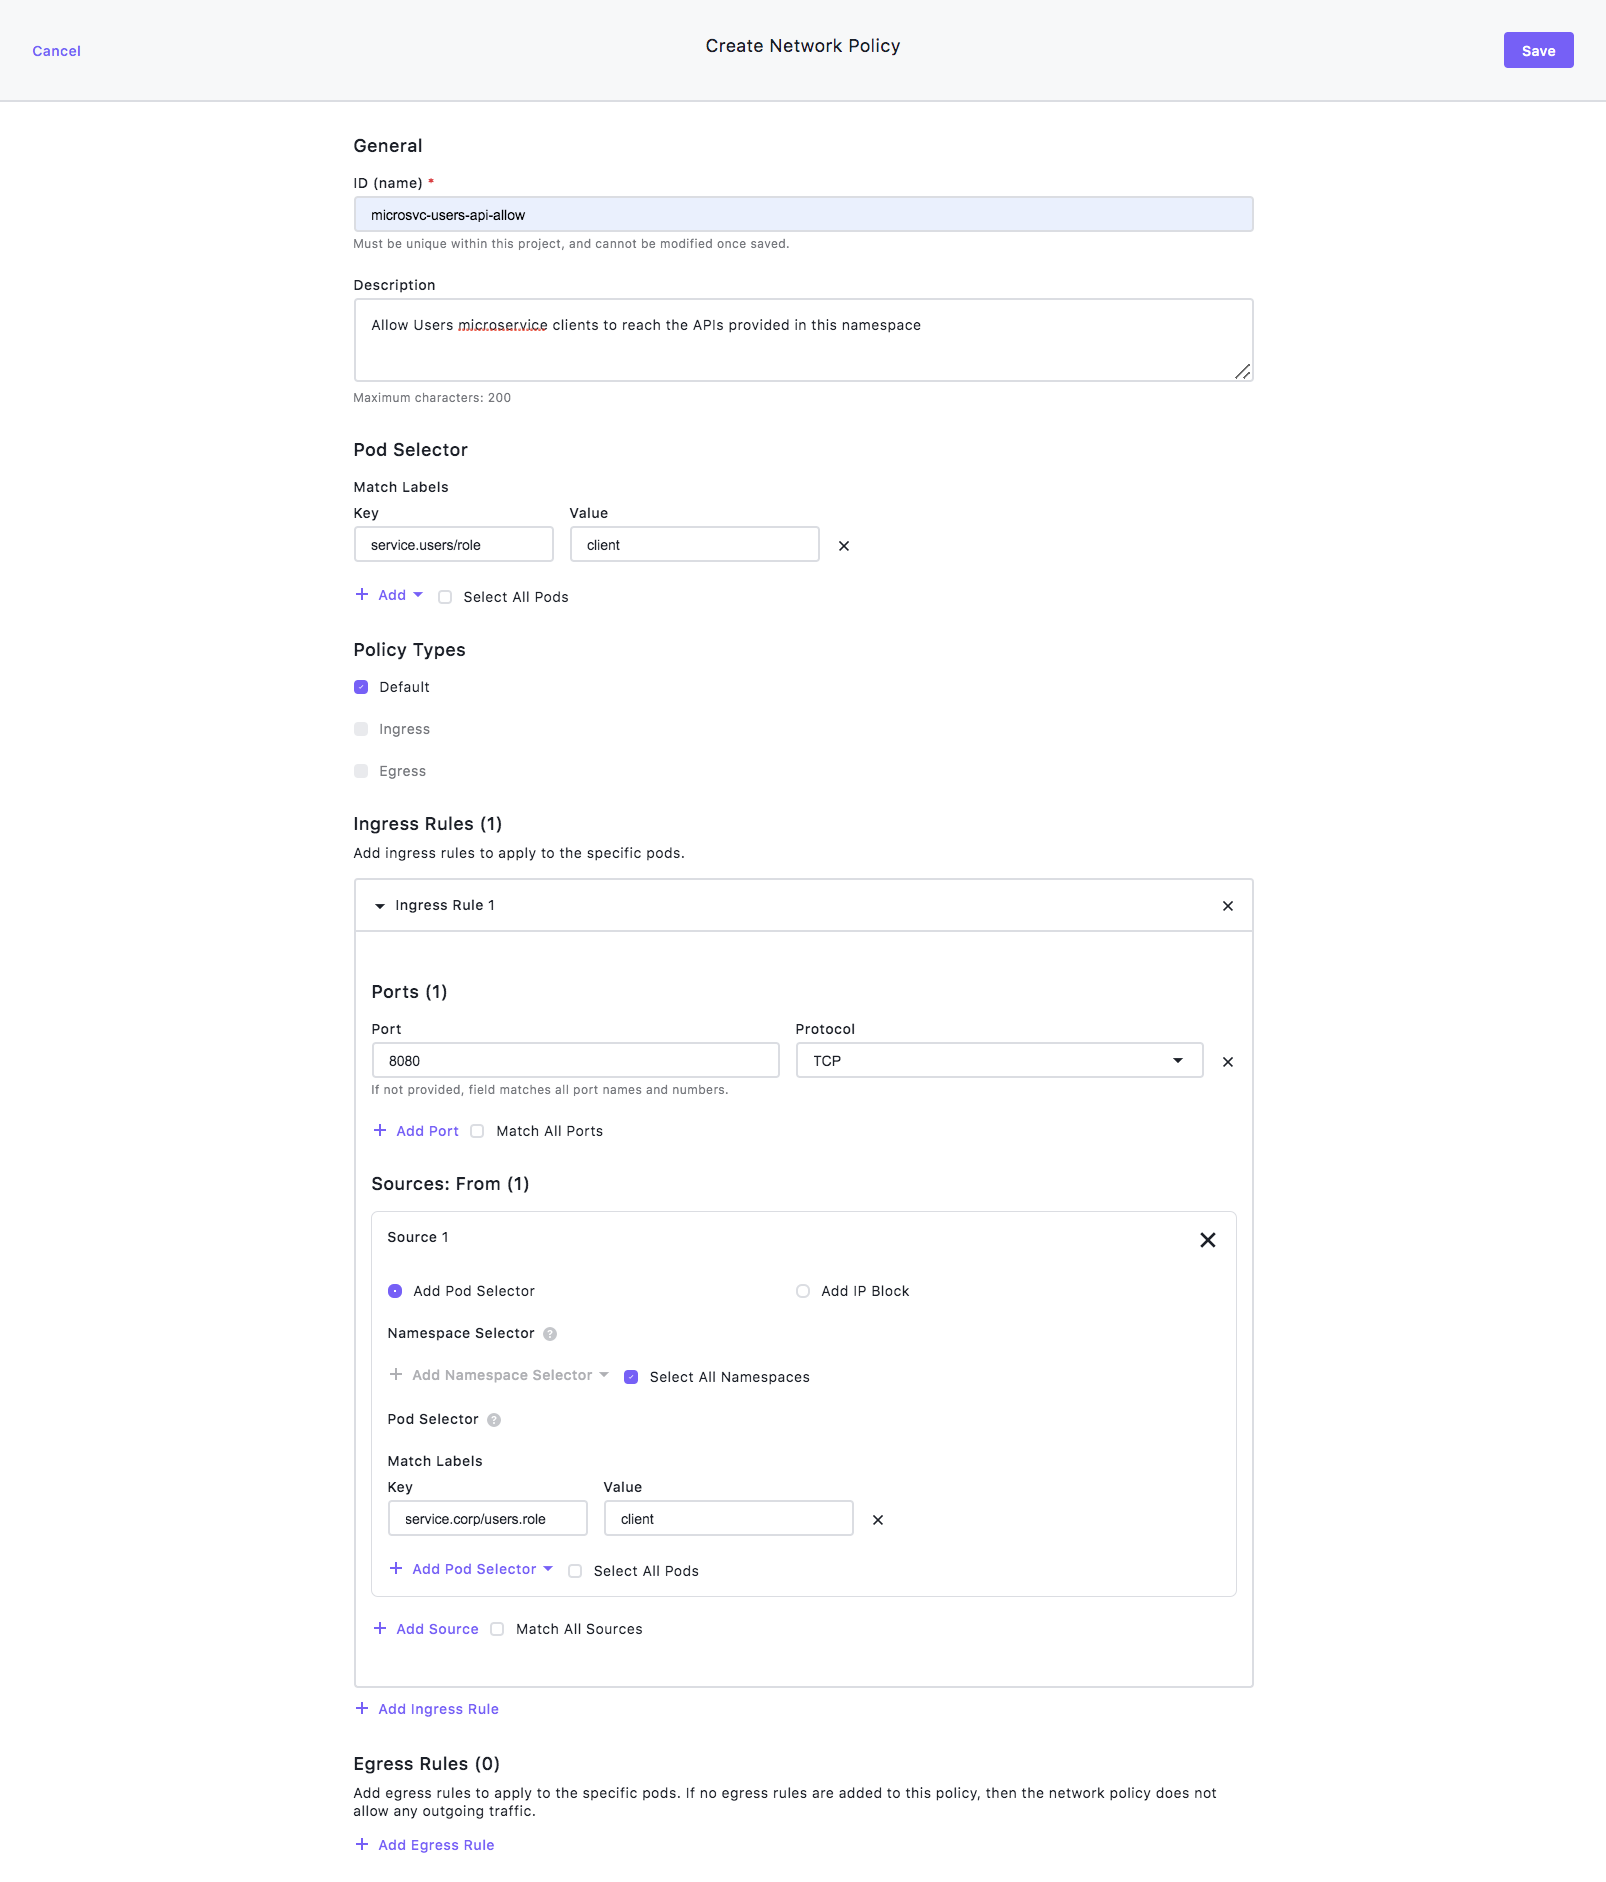
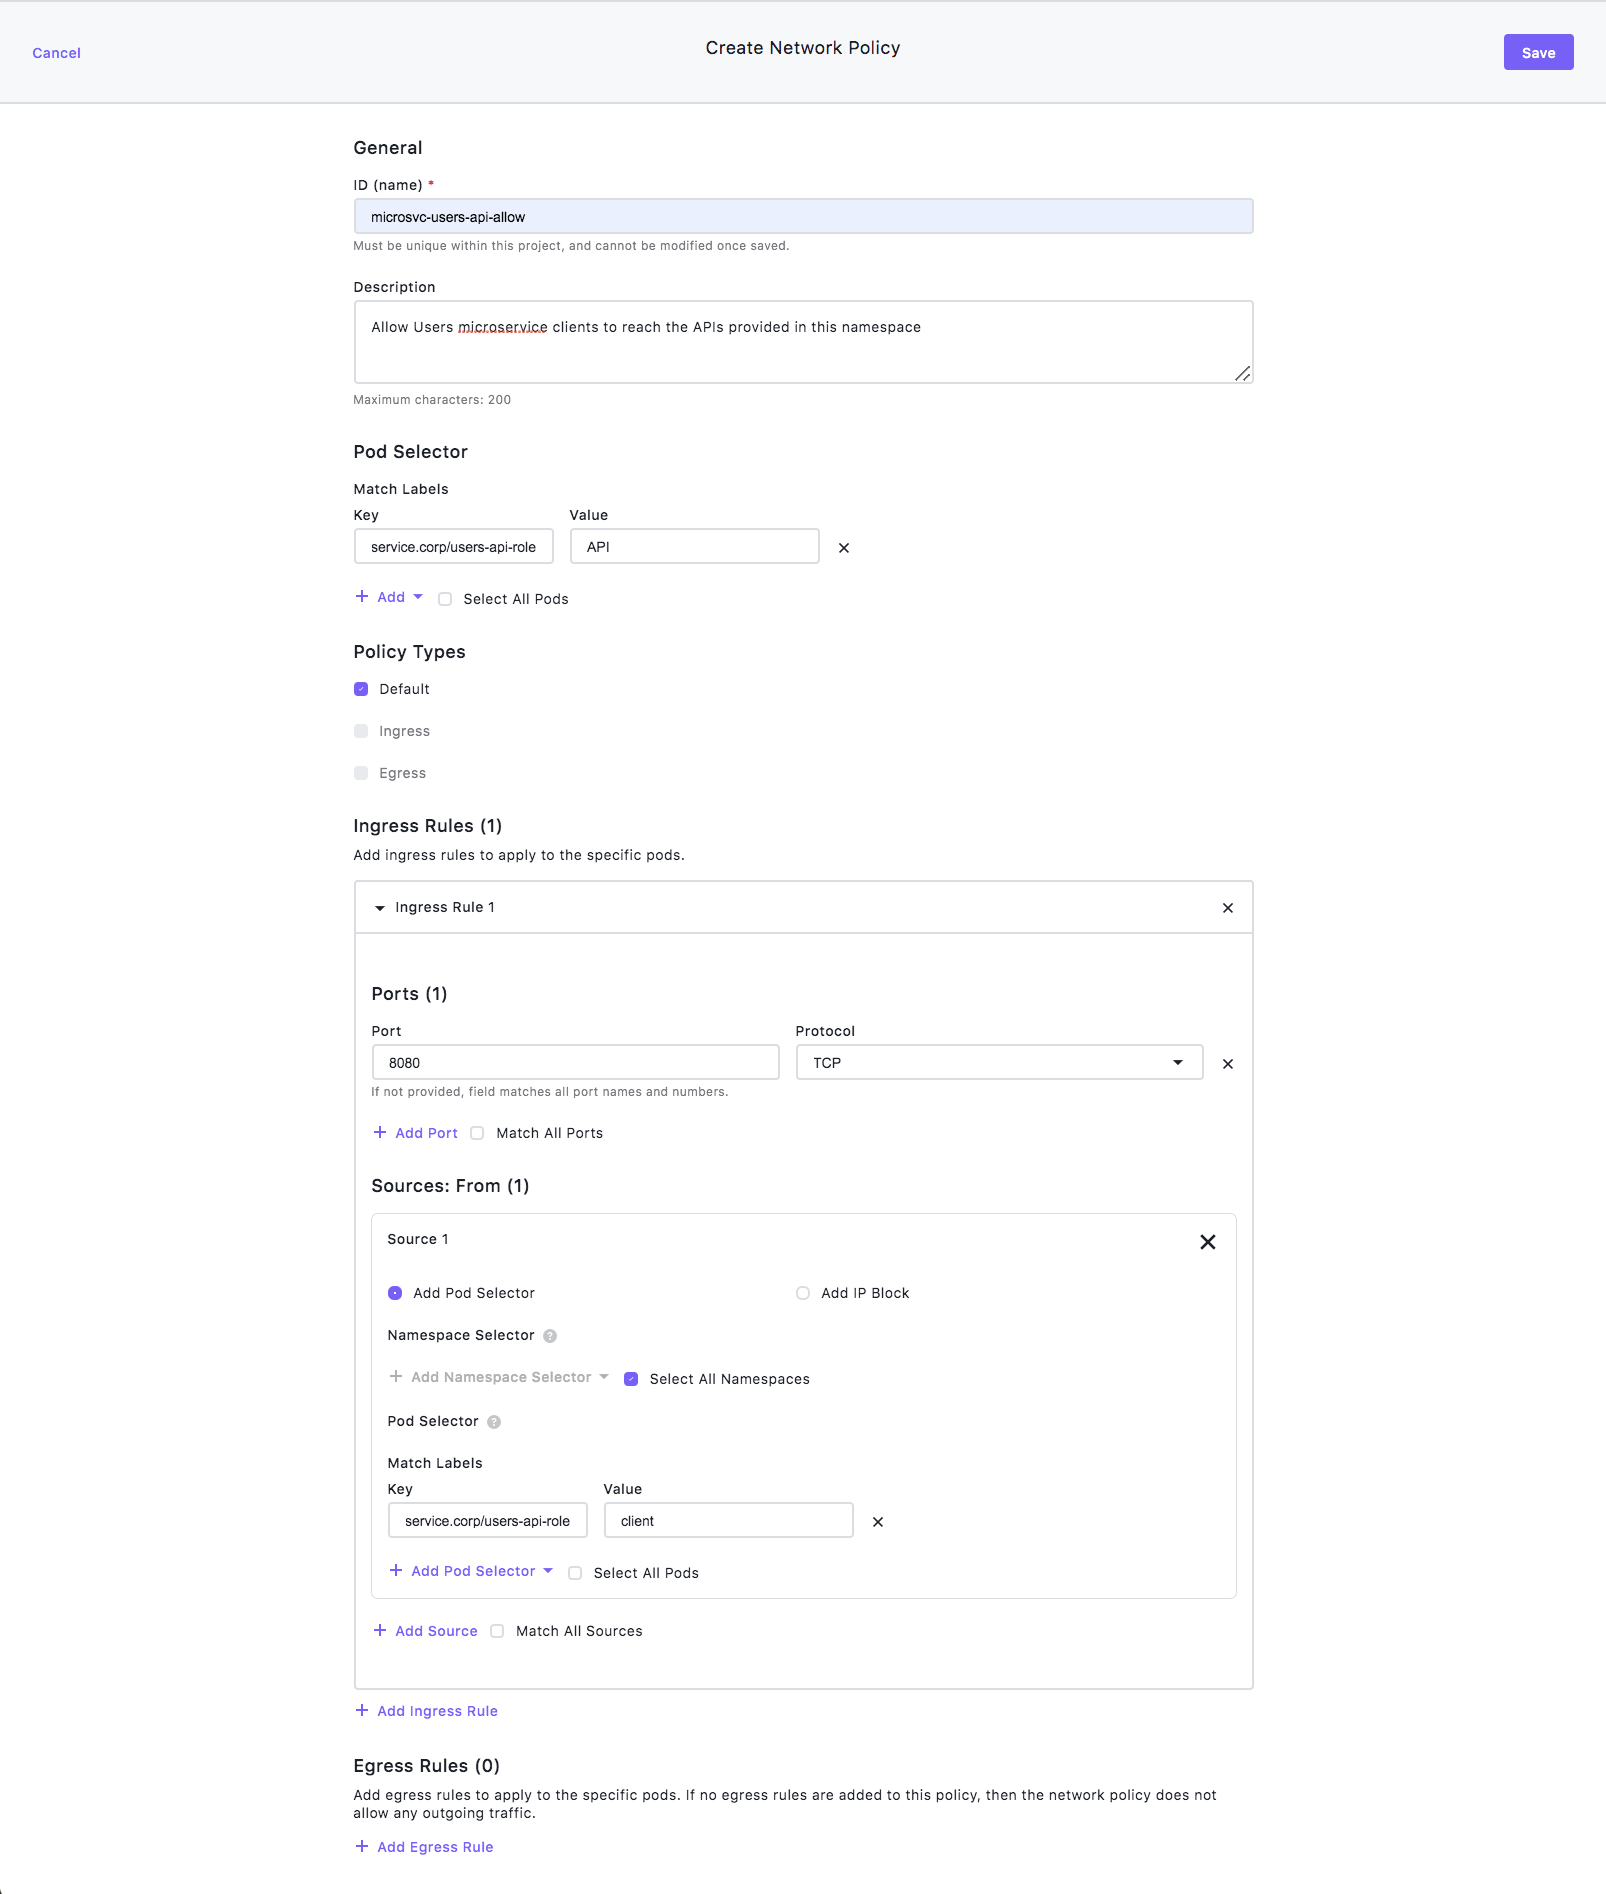
chore: network policy edits
- A couple small wording changes for correctness
- Updated one of the procedure screenshots

diff --git a/pages/dkp/kommander/1.3/projects/project-network-policies/index.md b/pages/dkp/kommander/1.3/projects/project-network-policies/index.md
@@ -36,8 +36,8 @@ This section also contains the **Pod Selector** fields for selecting pods using 
 
 The **Policy Types** selections help to define the type of Network Policy you are creating:
 - **Default** - automatically includes ingress, and egress is set only if the network policy defines egress rules.
-- **Ingress** - this policy will only apply to ingress traffic for the selected pods and/or namespaces using the options you define below.
-- **Egress** - this policy will only apply to egress traffic for the selected pods and/or namespaces using the options you define below.
+- **Ingress** - this policy will apply to ingress traffic for the selected pods and/or namespaces using the options you define below.
+- **Egress** - this policy will apply to egress traffic for the selected pods and/or namespaces using the options you define below.
 
 If the Default policy type is too rigid or does not provide what you need, you can select the Ingress and/or Egress type and explicitly define the policy with the options that follow. For example, if you do not want this policy to apply to ingress traffic, you would select only Egress, and then define the policy.
 
@@ -48,39 +48,37 @@ To deny all egress traffic, select the **Egress** option here and then leave the
 ## Ingress Rules
 Ingress rules use a combination of **Port** / **Protocol** and **Source** to define the incoming traffic allowed to some or all of the pods in this namespace.
 
-The options under **Sources: From** allow you to define a source either by using the pod selector or by defining an IP block. When using the pod selector method, you can define the namespace, and/or the pods within that namespace. When you select a namespace in an ingress rule, you are allowing all of the pods in that namespace to receive incoming traffic that meets the other defined criteria.
+The options under **Sources: From** allow you to define a source either by using the pod selector or by defining an IP block. When using the pod selector method, you can define the namespace, and/or the pods within that namespace. 
 
-**Pods** - This option selects specific Pods, in the same namespace as the network policy, which should be allowed as ingress sources or egress destinations.
+**Namespaces** - When you select a namespace in an ingress rule source, you are allowing the pods selected by the pod selector in your selected namespaces to receive incoming traffic that meets the other defined criteria. If no pods have been selected, the rule will allow traffic from all pods in the selected namespaces.
 
-When you select both, you are selecting specific pods from a specific namespace.
+**Pods** - This option selects specific Pods which should be allowed as ingress sources or egress destinations. If no namespaces have been selected in the namespace selector, this will select all matching pods in the project namespace. Otherwise, it will select all matching pods in the selected namespaces.
 
 There also are options to select all namespaces and/or all pods.
-
-For example, if you wanted to create a default "deny all incoming traffic" policy for a namespace, you could select a namespace by name, and check the Select All Pods check box. By not defining any specific ingress rules, you explicitly create a "deny all traffic" network policy!
 
 When defining ingress rules using the IP Block method, you define a CIDR and exception conditions. CIDR stands for Classless Inter-Domain Routing and is an IP standard for creating unique network and device identifiers. When grouped together so that they share an initial sequence of bits in their binary representation, the range of addresses creates a CIDR block. The block is identified in an IPv4-like notation including a dotted-decimal address, followed by a slash, then a colon and a number from 0-32, for example, 127.0.26.33:31.
 
 ## Egress Rules
-Egress rules use a very similar combination of options to define the outgoing traffic from pods, ranges of pods, or namespaces in a Kommander Project. Port, Protocol and Destination options for egress rules define the outgoing traffic. You may need to define egress rules under **Destination: To** for pods, ranges of pods, or namespaces to coincide with the different ingress rules you create. For example, if there are namespaces or pods expecting incoming TCP traffic on port 8080, then some corresponding namespaces or pods will need to specify outgoing TCP traffic on port 8080.
+Egress rules use a very similar combination of options to define the outgoing traffic from pods, ranges of pods, or namespaces in a Kommander Project. Port, Protocol and Destination options for egress rules define the outgoing traffic. You can define your egress rules under  **Destination: To**. Ensure the egress policy on the source pods and the ingress policy on the destination pods allow traffic in order for the pods to be able to communicate over the network.
 # Network Policy Examples
 
 ## Ingress: Allow access to API service pods from all namespaces
 
-Suppose you need to create a network policy to allow incoming traffic to API service pods in a specific Kommander Project's namespace from any other pod in any namespace that has the label, service.corp/users-api-role: client. For this example, API service pods are those pods that were created with the Label, service.corp/users.role: api.
+Suppose you need to create a network policy to allow incoming traffic to API service pods in a specific Kommander Project's namespace from any other pod in any namespace that has the label, service.corp/users-api-role: client. For this example, API service pods are those pods that were created with the Label, service.corp/users-api-role: api.
 
 You can limit the policy to just incoming traffic from select namespaces by adding an ingress rule with these characteristics:
 
 - Use Port 8080 to receive incoming TCP traffic, and...
-- Refuse traffic from pods unless they are client pods that have a Label, such as `service.corp/users/role: client`, which follows a common microservice architecture pattern, "microservice-tier-role: accessmode".
+- Refuse traffic from pods unless they are client pods that have a Label, such as `service.corp/users-api-role: client`, which follows a common microservice architecture pattern, "microservice-tier-role: accessmode".
 
-![Microservice neetwork policy](pages/dkp/kommander/1.3/img/network-policies-microservice-procedure.png)
+![Microservice network policy](/dkp/kommander/1.3/img/network-policies-microservice-procedure.png)
 
 ### Provide the General Information
 1. Select **Projects** from the left-hand navigation bar, then select the **Network Policy** tab.
-2. Type "microsvc-users-API-allow" in the **ID Name** field.
+2. Type "microsvc-users-api-allow" in the **ID Name** field.
 3. Type “Allow Users microservice clients to reach the APIs provided in this namespace” in the **Description** field.
-4. Select **Add** under **Pod Selector** and then select **Match Labels**.
-5. Set the **Key** to service.users/role and the **Value** to API.
+4. Select **Add** under **Pod Selector** and then select **Match Label**.
+5. Set the **Key** to service.corp/users-api-role and the **Value** to API.
 
 ### Create an Ingress rule
 1. Leave **Policy Types** set to Default.
@@ -90,8 +88,8 @@ You can limit the policy to just incoming traffic from select namespaces by addi
 ### Add Sources
 1. Select **+ Add Sources** and mark the **Select All Namespaces** check box.
 2. Select **+ Add Pod Selector**.
-3. Select **Match Labels**.
-4. Set the **Key** value to users select all names bases service.corp/users/role and set the **Value** to client.
+3. Select **Match Label**.
+4. Set the **Key** value to service.corp/users-api-role and set the **Value** to client.
 5. Scroll up and select **Save**.
 
 ## Ingress: Limit pods that access a database to this namespace
@@ -102,12 +100,12 @@ You can limit the database pods to just incoming traffic from the current namesp
 - Use Port 3306 to receive incoming TCP traffic for pods that have the label, `tier: database`, and...
 - Refuse traffic from pods unless they have the label, `tier: api`.
 
-![Database network policy](pages/dkp/kommander/1.3/img/network-policies-database-procedure.png)
+![Database network policy](/dkp/kommander/1.3/img/network-policies-database-procedure.png)
 ### Provide the General Information
 1. Select **Project** from the left-hand navigation bar, then select the **Network Policy** tab.
 2. Type database-access-api-only in the **ID name** field.
 3. Type “Allow MySQL access only from API pods in this namespace" in the **Description** field.
-4. Select **Pod Selector** then select **Match Labels**.
+4. Select **Pod Selector** then select **Match Label**.
 5. Set the **Key** to tier and the **Value** to database.
 
 ### Create an Ingress rule
@@ -118,7 +116,8 @@ You can limit the database pods to just incoming traffic from the current namesp
 
 ### Add Sources
 1. Select **+ Add Source**.
-2. Select **+ Add Pod Selector** and set the **Key** to tier and the **Value** to API.
+2. Select **+ Add Pod Selector**.
+3. Select **Match Label** and set the **Key** to tier and the **Value** to API.
 3. Scroll up and select **Save**.
 
 ## Ingress: Disable but don’t delete ingress rules
@@ -126,7 +125,7 @@ Suppose that you want to disable ingress rules temporarily for testing or triagi
 
 First, you need to create a network policy with one or more ingress rules. You could follow one of the preceding procedures, for example. Then, you need to edit the policy to match the following example:
 
-![Disable ingress network policy](pages/dkp/kommander/1.3/img/network-policies-ignore-ingress-procedure.png)
+![Disable ingress network policy](/dkp/kommander/1.3/img/network-policies-ignore-ingress-procedure.png)
 
 ### Edit your Network Policy
 1. Select **Projects** from the left-hand navigation bar, then select the **Network Policy** tab.
@@ -139,12 +138,12 @@ First, you need to create a network policy with one or more ingress rules. You c
 ## Egress: Deny all egress traffic from restricted pods
 Suppose that you need to deny all egress traffic from a group of restricted pods. This is a simple egress rule and you can create it quickly following this example and steps:
 
-![Deny all egress network policy](pages/dkp/kommander/1.3/img/network-policies-restricted-egress-procedure.png)
+![Deny all egress network policy](/dkp/kommander/1.3/img/network-policies-restricted-egress-procedure.png)
 ### Provide the General Information
 1. Select **Projects** from the left-hand navigation bar, then select the **Network Policy** tab and click **+ Add Network Policy**.
 2. Type deny-restricted-egress in the **ID name** field.
 3. Type “Deny egress traffic from restricted pods" in the **Description** field.
-4. Select **Pod selector** then select **Match Labels.**
+4. Select **Pod selector** then select **Match Label.**
 5. Set the **Key** to access and the **Value** to restricted.
 
 ### Deny Egress traffic
